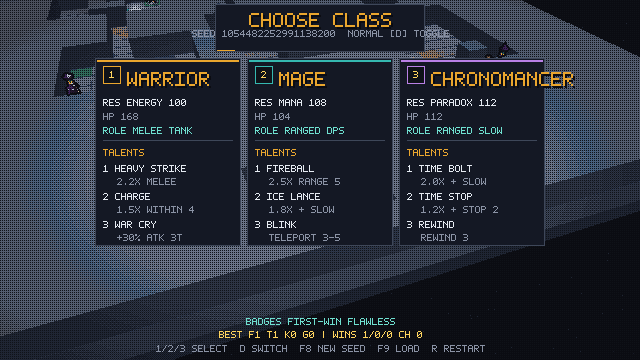
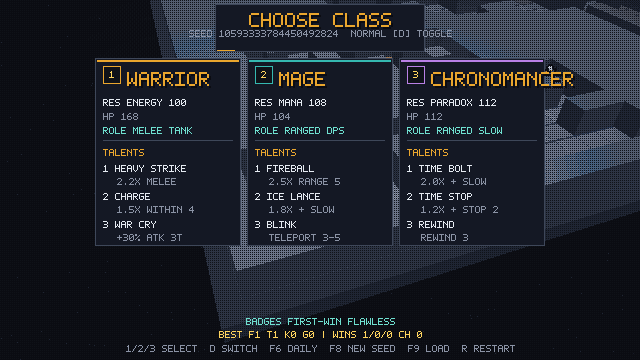
fix: show F6 daily and preview audio changes

diff --git a/docs/AUDIO.md b/docs/AUDIO.md
@@ -34,6 +34,7 @@
 - settings.json 持久化 volume/ambient
 - 启动时 SDL_SetAudioStreamGain / setAmbient
 - F2 第 5 项开关环境音
+- 调音量/开关环境音时立即播 ui 试听音，确认是否生效
 
 ## 氛围切换
 
@@ -59,5 +60,6 @@
 - 音频设备选择
 - 音量淡入淡出/限幅
 - 自动化音频测试（依赖设备）
+- 硬件实听（扬声器/耳机/Deck 扬声器）
 
 这些不影响当前上架最小版本；多轨 BGM 仍是下一步体验重点。
